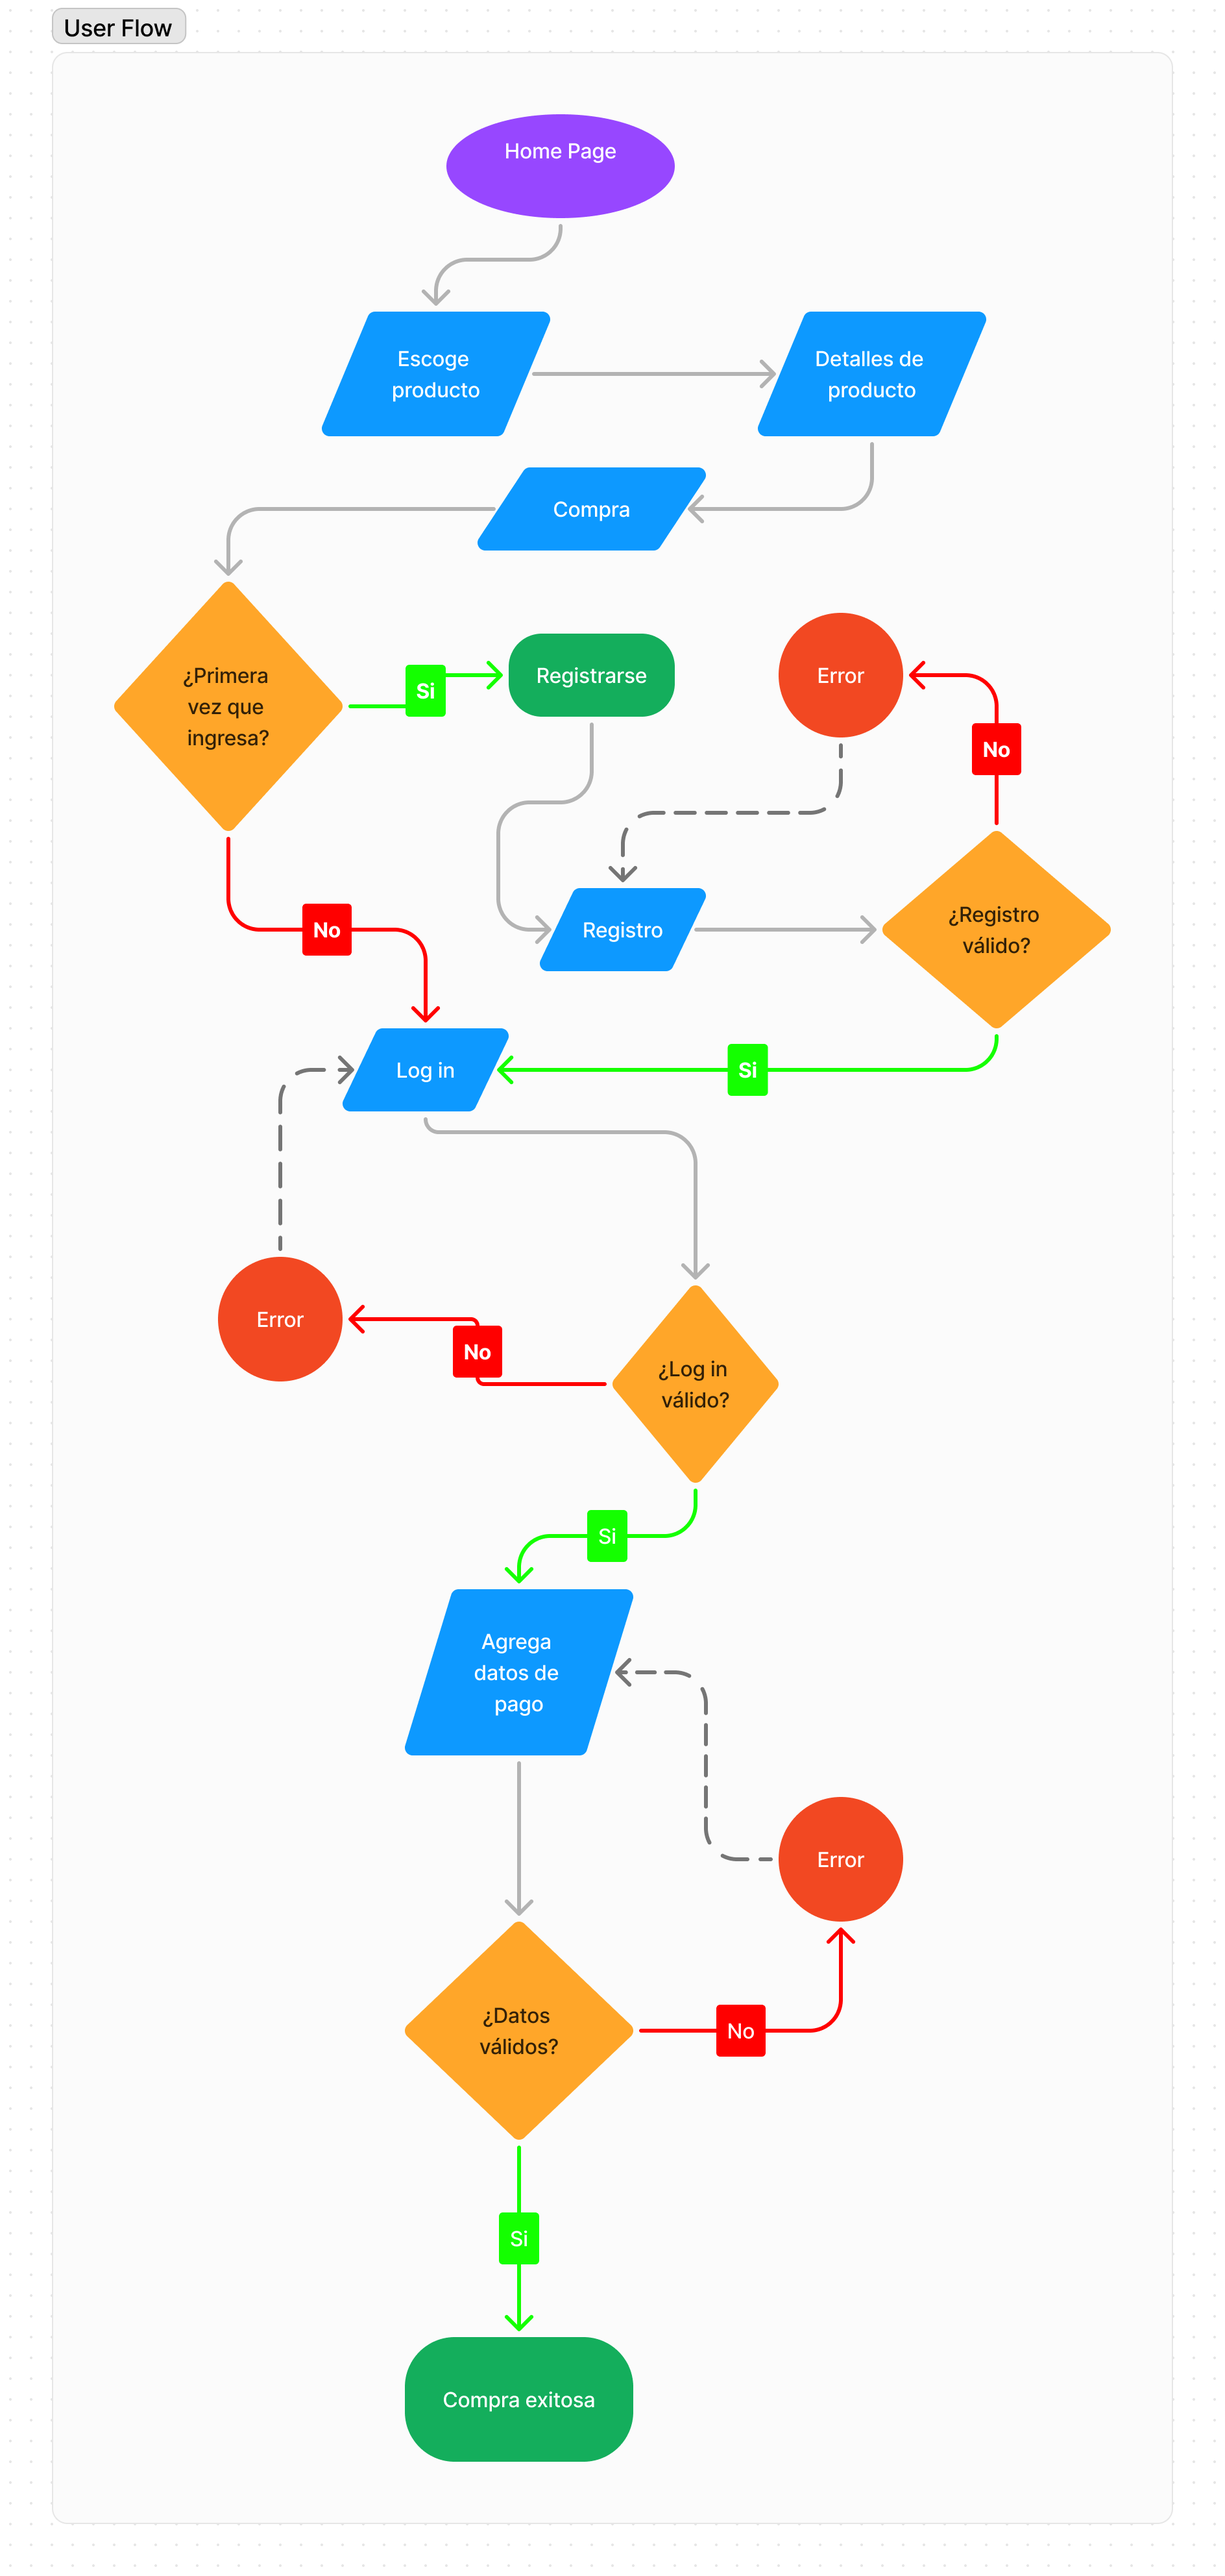
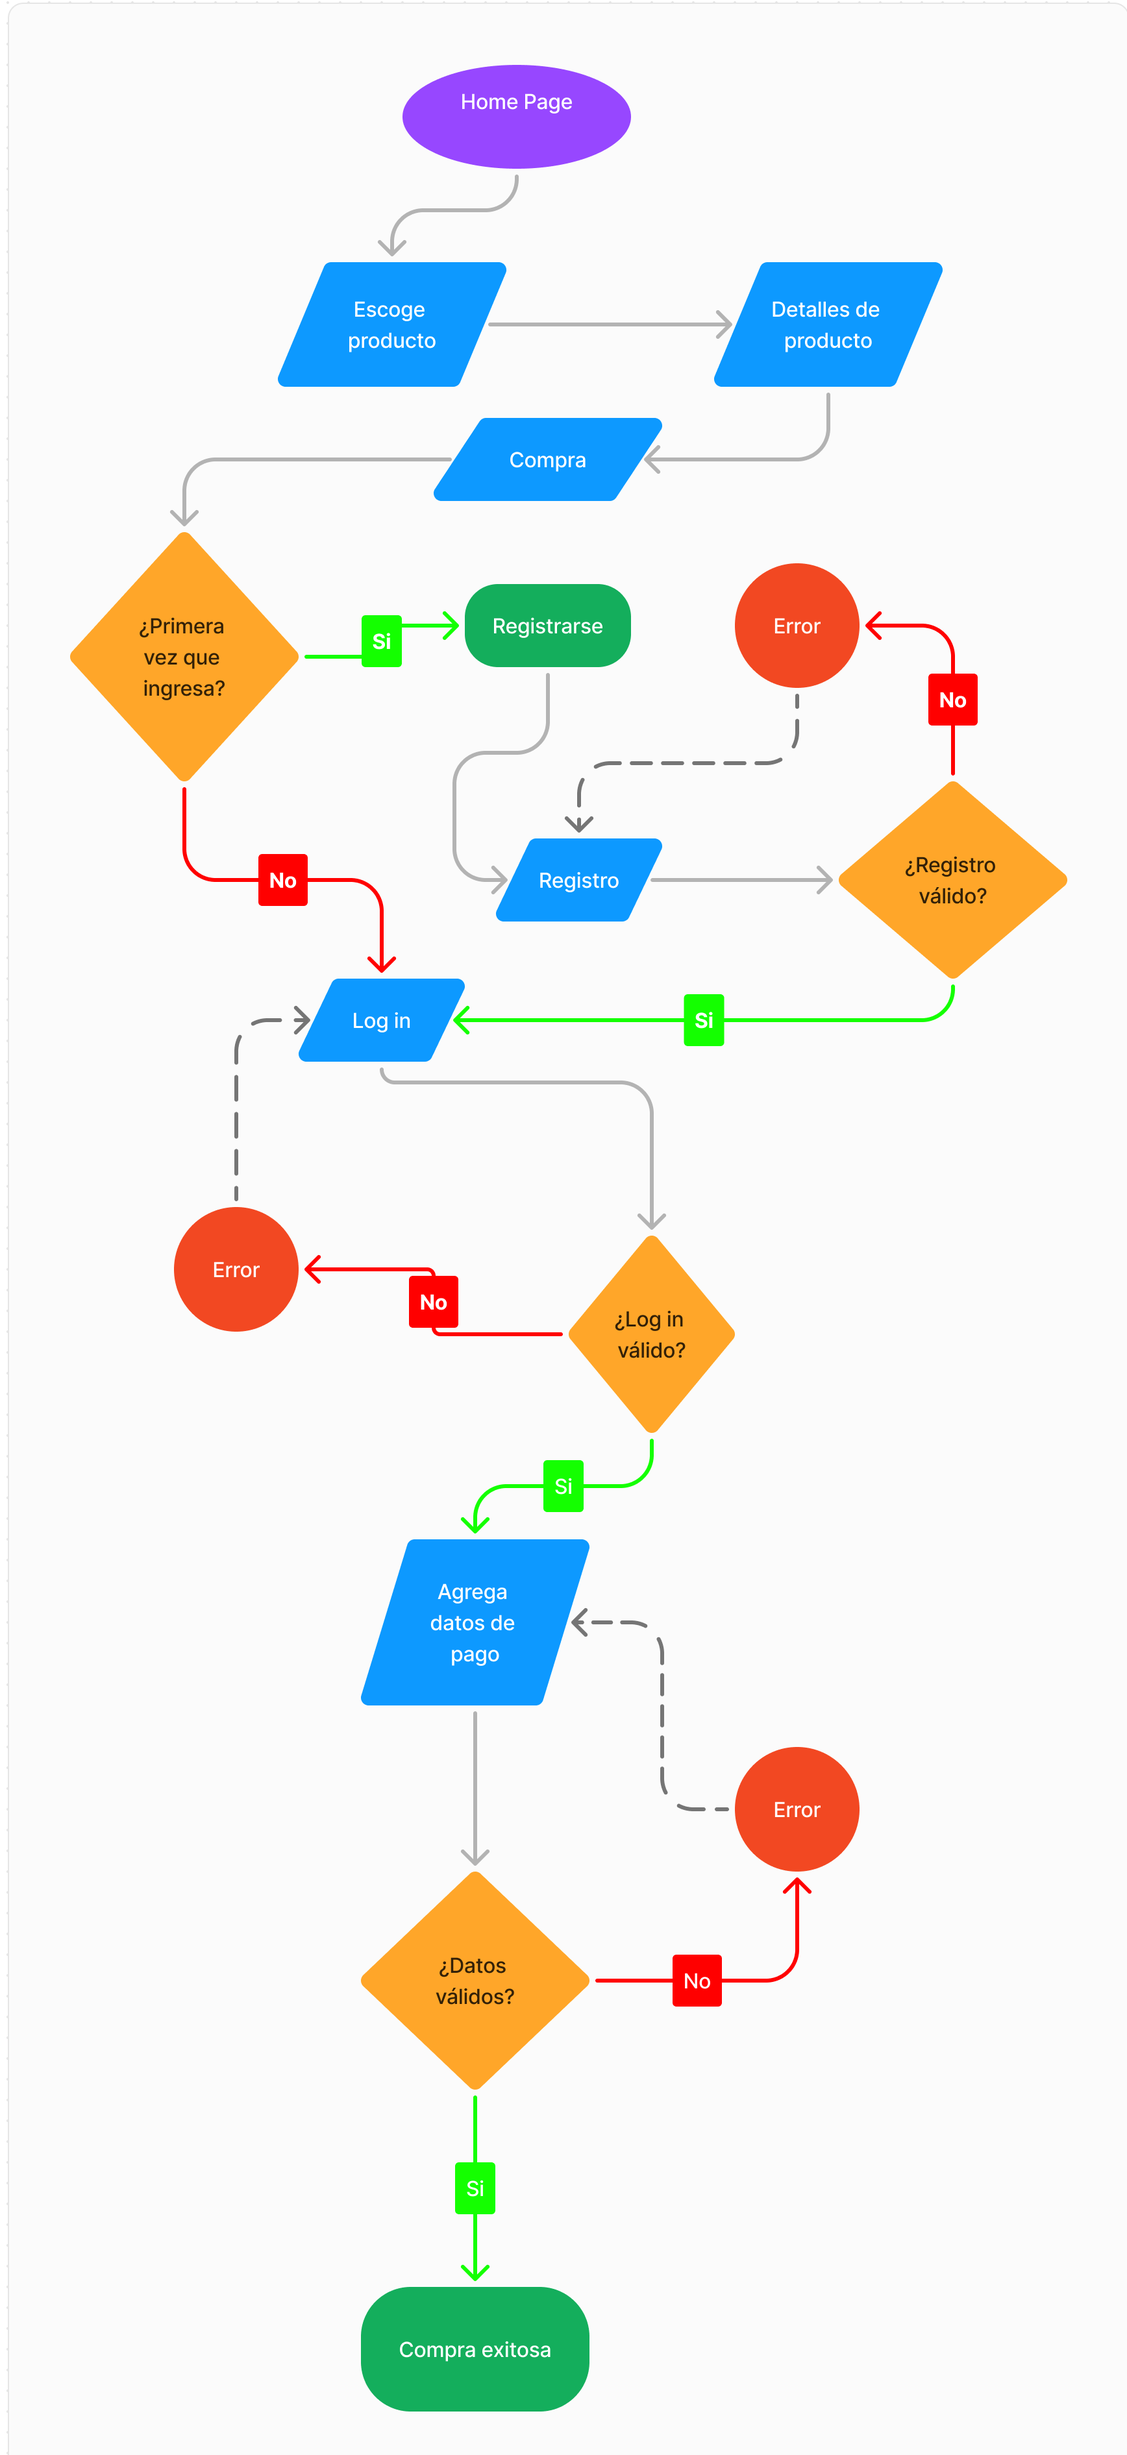
changed colours to display in spanish, responsive in about this project sector, added toasts to home and product

diff --git a/src/App.css b/src/App.css
@@ -206,6 +206,10 @@ html {
   border-bottom: none;
 }
 
+.notifyProduct {
+  margin-top: 100px;
+}
+
 .productCard {
   border-radius: 10px;
   transition: all 0.3s ease-in-out;
@@ -687,91 +691,91 @@ html {
 
 /* Color */
 
-.productColor-pink {
+.productColor-Rosa {
   background-color: pink;
   border-radius: 100%;
   width: 100%;
   height: 100%;
 }
 
-.productColor-black {
+.productColor-Negro {
   background-color: black;
   border-radius: 100%;
   width: 100%;
   height: 100%;
 }
 
-.productColor-white {
+.productColor-Blanco {
   background-color: rgb(247, 247, 247);
   border-radius: 100%;
   width: 100%;
   height: 100%;
 }
 
-.productColor-gray {
+.productColor-Gris {
   background-color: gray;
   border-radius: 100%;
   width: 100%;
   height: 100%;
 }
 
-.productColor-red {
+.productColor-Rojo {
   background-color: red;
   border-radius: 100%;
   width: 100%;
   height: 100%;
 }
 
-.productColor-skyblue {
+.productColor-Celeste {
   background-color: skyblue;
   border-radius: 100%;
   width: 100%;
   height: 100%;
 }
 
-.productColor-purple {
+.productColor-Purple {
   background-color: purple;
   border-radius: 100%;
   width: 100%;
   height: 100%;
 }
 
-.productColor-green {
+.productColor-Verde {
   background-color: green;
   border-radius: 100%;
   width: 100%;
   height: 100%;
 }
 
-.productColor-blue {
+.productColor-Azul {
   background-color: blue;
   border-radius: 100%;
   width: 100%;
   height: 100%;
 }
 
-.productColor-bisque {
+.productColor-Crema {
   background-color: bisque;
   border-radius: 100%;
   width: 100%;
   height: 100%;
 }
 
-.productColor-beige {
+.productColor-Beige {
   background-color: beige;
   border-radius: 100%;
   width: 100%;
   height: 100%;
 }
 
-.productColor-brown {
+.productColor-Marrón {
   background-color: brown;
   border-radius: 100%;
   width: 100%;
   height: 100%;
 }
 
-.productColor-fuchsia {
+.productColor-Fucsia {
   background-color: fuchsia;
   border-radius: 100%;
   width: 100%;

diff --git a/src/pages/AboutThisProject.jsx b/src/pages/AboutThisProject.jsx
@@ -18,7 +18,7 @@ export default function AboutThisProject() {
       <Container className="nobody pb-5">
         <header>
           <Row>
-            <Col xs={12} md={6} className="aboutProject d-flex">
+            <Col xs={12} lg={6} className="aboutProject d-flex">
               <div className="pe-4">
                 <h2>Sobre este proyecto</h2>
                 <p className="aboutThisProjectIntro">
@@ -45,7 +45,7 @@ export default function AboutThisProject() {
                 </p>
               </div>
             </Col>
-            <Col xs={12} md={6}>
+            <Col xs={12} lg={6}>
               <div className="imgHomeBefore ">
                 <div>
                   <Image
@@ -99,10 +99,13 @@ export default function AboutThisProject() {
         </header>
         <section className="pt-5">
           <Row className="d-flex" id="aboutUs">
-            <Col xs={4}>
-              <Image></Image>
+            <Col xs={12} lg={5}>
+              <Image
+                className="w-100 pt-4"
+                src="/src/assets/UserFlow.png"
+              ></Image>
             </Col>
-            <Col xs={8}>
+            <Col xs={12} lg={7}>
               <Col className="d-flex" xs={12}>
                 <div className="ourPhotosContainer">
                   <Image

diff --git a/src/pages/Home.jsx b/src/pages/Home.jsx
@@ -168,9 +168,7 @@ export default function Home() {
               <h5>Filtros</h5>
               <div className="filterStyle">
                 <div
-                  onClick={
-                    () => notify() /* setPrecioAbierto(!precioAbierto) */
-                  }
+                  onClick={() => setPrecioAbierto(!precioAbierto)}
                   style={{ cursor: "pointer" }}
                 >
                   Precio
@@ -181,8 +179,8 @@ export default function Home() {
                       <input
                         class="form-check-input"
                         type="checkbox"
-                        value=""
                         id="flexCheckDefault"
+                        onClick={() => notify()}
                       />
                       <label
                         class="form-check-label px-2"
@@ -195,8 +193,8 @@ export default function Home() {
                       <input
                         class="form-check-input"
                         type="checkbox"
-                        value=""
                         id="flexCheckDefault"
+                        onClick={() => notify()}
                       />
                       <label
                         class="form-check-label px-2"

diff --git a/src/pages/Product.jsx b/src/pages/Product.jsx
@@ -16,7 +16,7 @@ export default function Product() {
   const dispatch = useDispatch();
 
   const notify = () => {
-    toast.warn("En desarrollo");
+    toast.success("Producto agregado exitosamente!");
   };
 
   const addQty = () => {
@@ -114,14 +114,21 @@ export default function Product() {
               </div>
               <button
                 className="mt-4 w-100 addToCart"
-                onClick={() => addToCart()}
+                onClick={() => {
+                  addToCart();
+                  notify();
+                }}
               >
                 <b>Añadir al carro</b>
               </button>
             </Col>
           </Row>
         </Container>
-        <ToastContainer position="top-right" autoClose={3000} />
+        <ToastContainer
+          position="top-right"
+          autoClose={3000}
+          className="notifyProduct"
+        />
         <Footer />
       </>
     )

diff --git a/src/pages/Cart.jsx b/src/pages/Cart.jsx
@@ -1,9 +1,8 @@
-import React, { useEffect, useState } from "react";
+import React from "react";
 import NavBar from "../components/NavBar";
 import Footer from "../components/Footer";
 import { Link } from "react-router-dom";
 import { Container, Row, Col, Image, Form } from "react-bootstrap";
-
 import { useSelector, useDispatch } from "react-redux";
 import { deleteProduct, addOne, decreaseOne } from "../redux/cartReducer";
 
